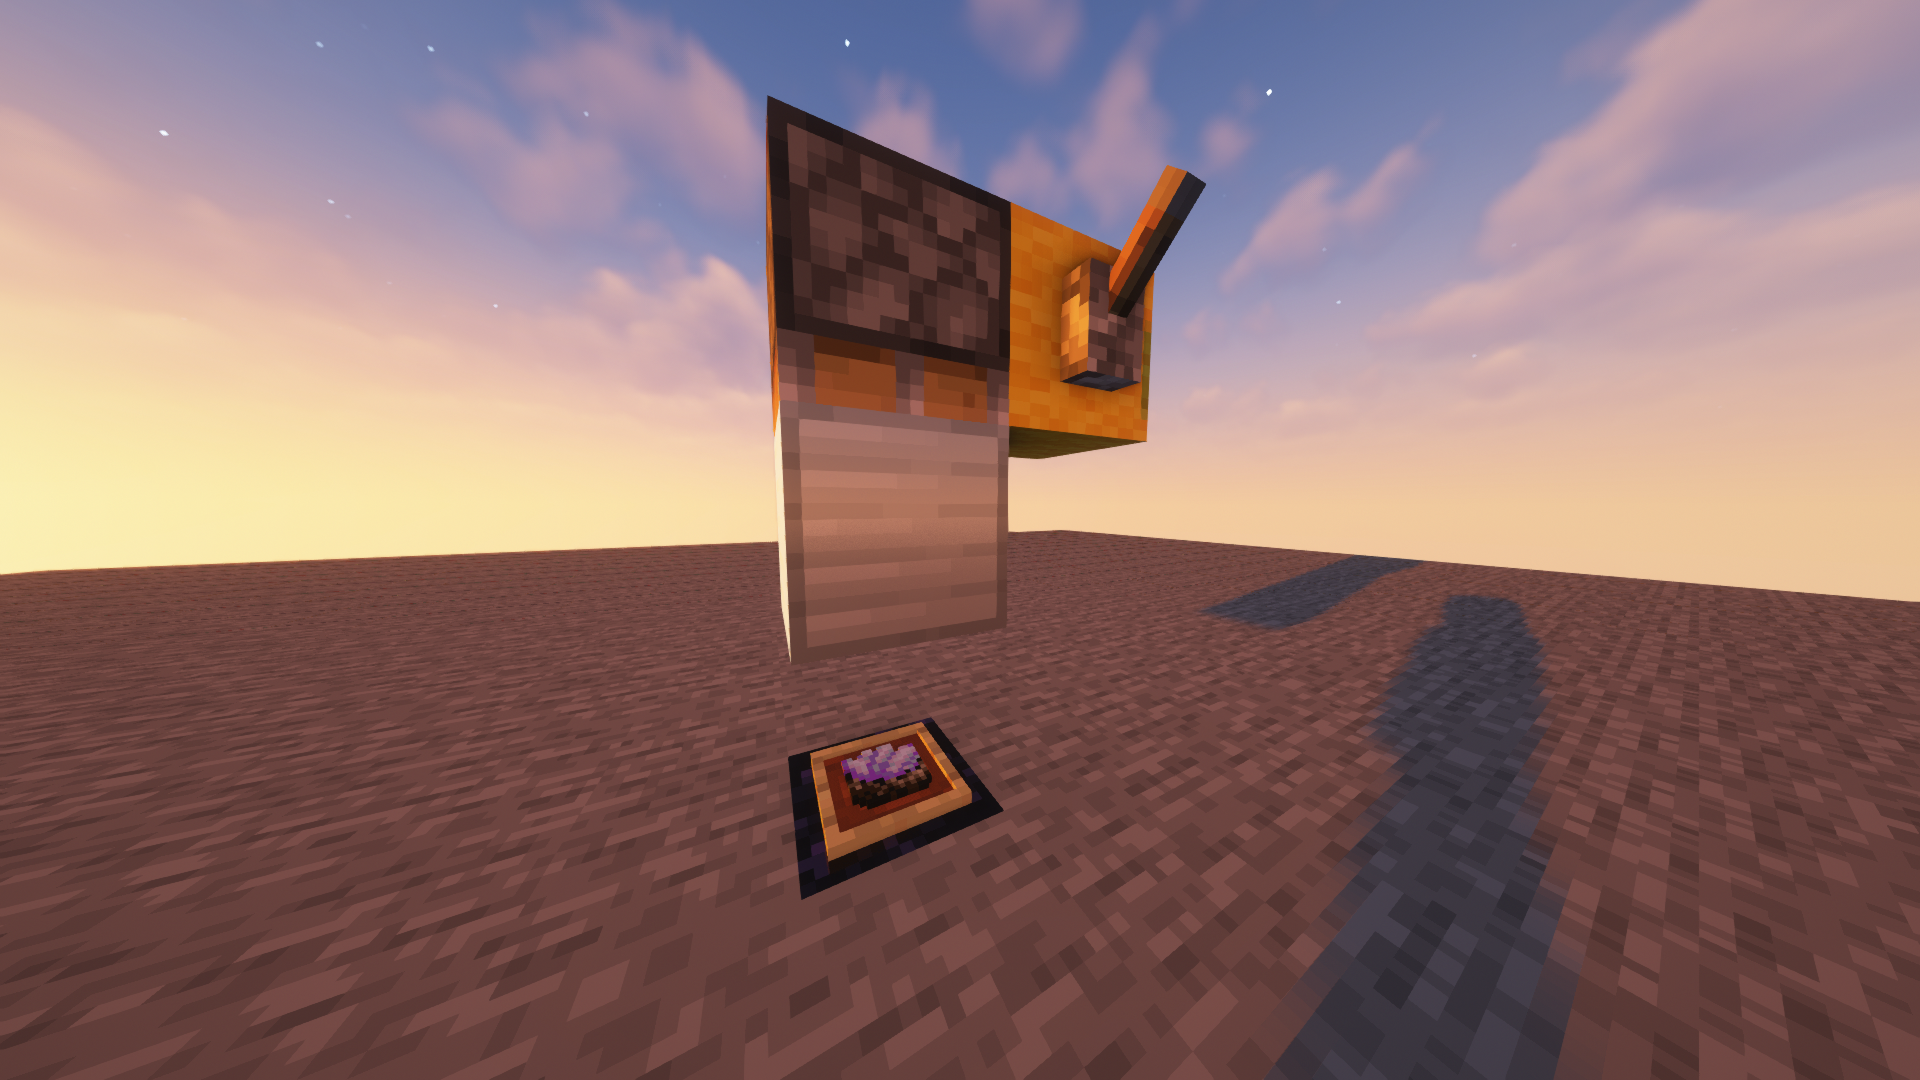
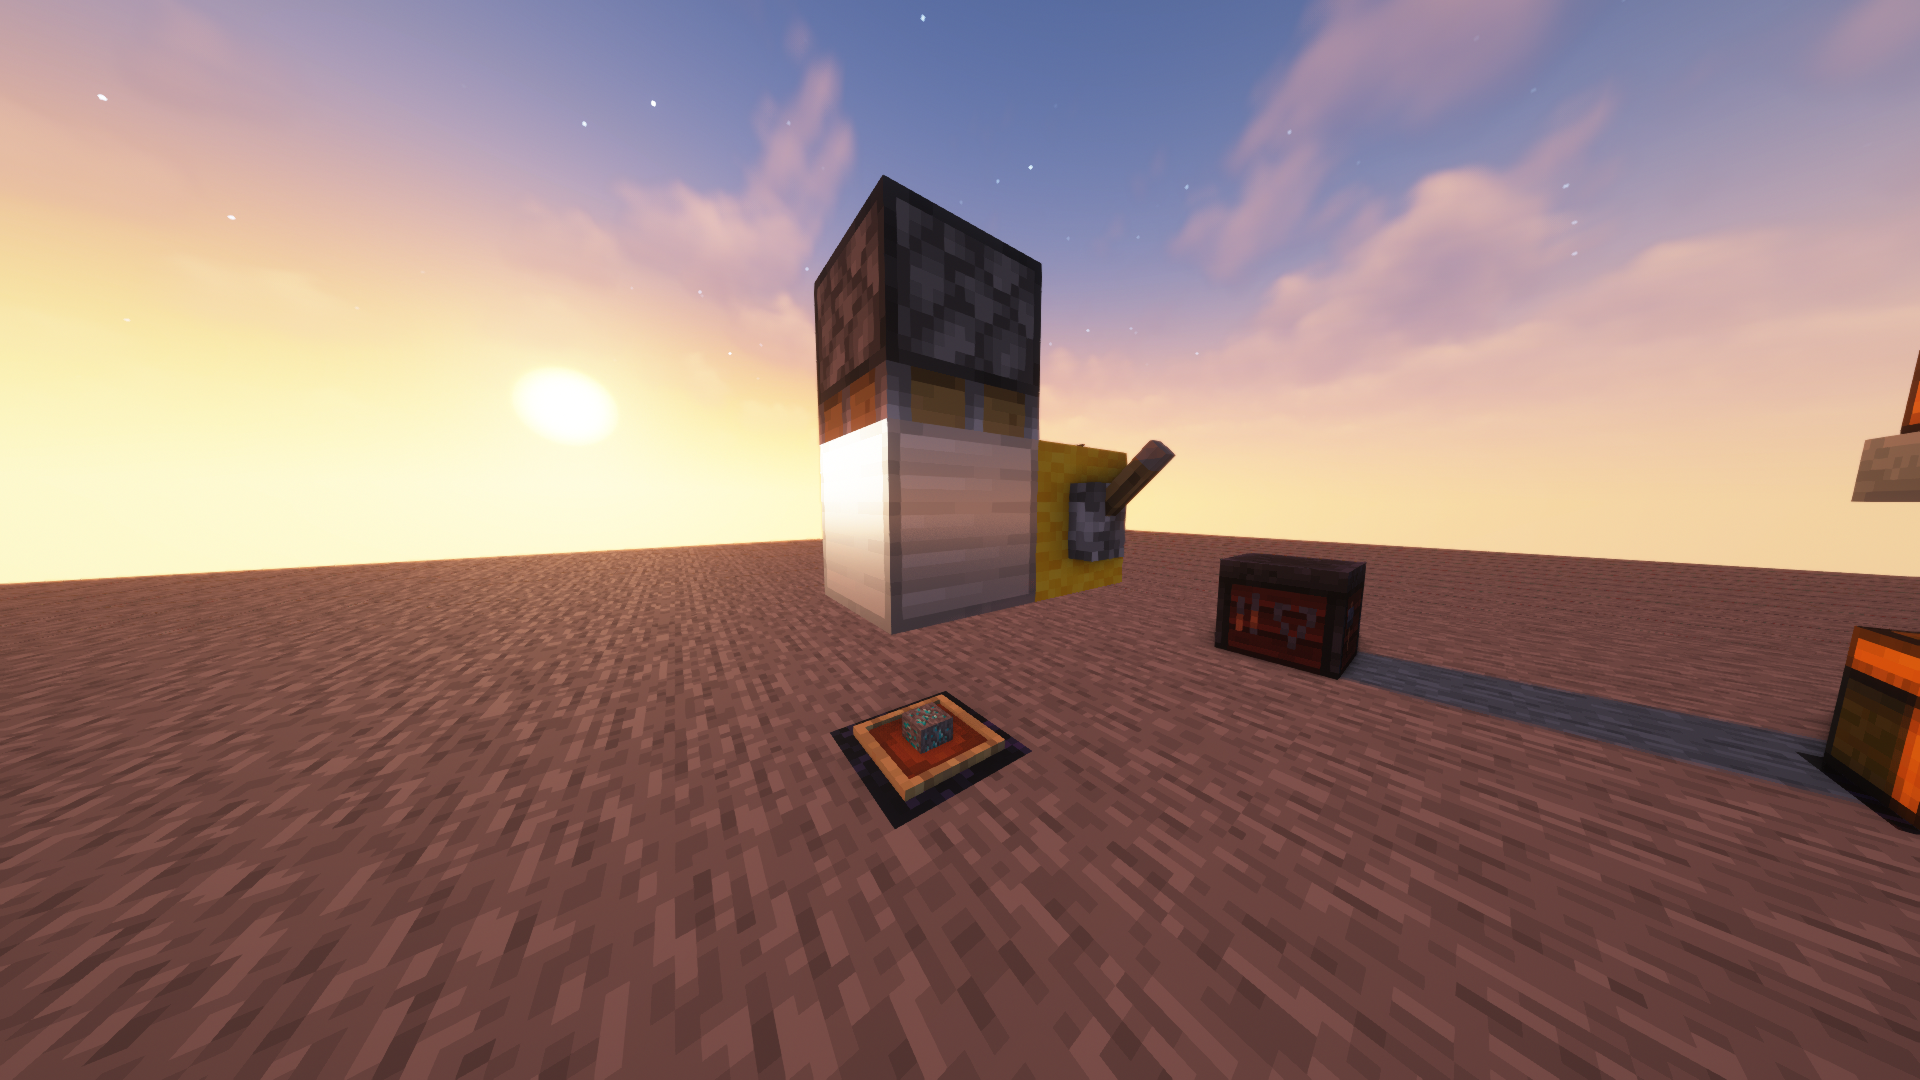
updating readme

diff --git a/Enchanting Overhaul/ReadMe.md b/Enchanting Overhaul/ReadMe.md
@@ -60,7 +60,7 @@ All enchantments can only be raised to their normal levels.
 		- Bloodstone (0.4%)
 
 ### Crushing
-![](readme_assets/crusher.png)
+![](readme_assets/crusher.png) ![](readme_assets/crushing.png)
  - Place an obsidian block. Place an iron block 2 blocks above it (1 empty space between). Place a piston facing down above that. Place an item frame on the obsidian and put an obsidian in the item frame, then power that sticky piston. The obsidian will be crushed and it might turn into an Onyx.
  - Can also crush most ores, crying obsidian, and gilded blackstone.
  - Drops:
